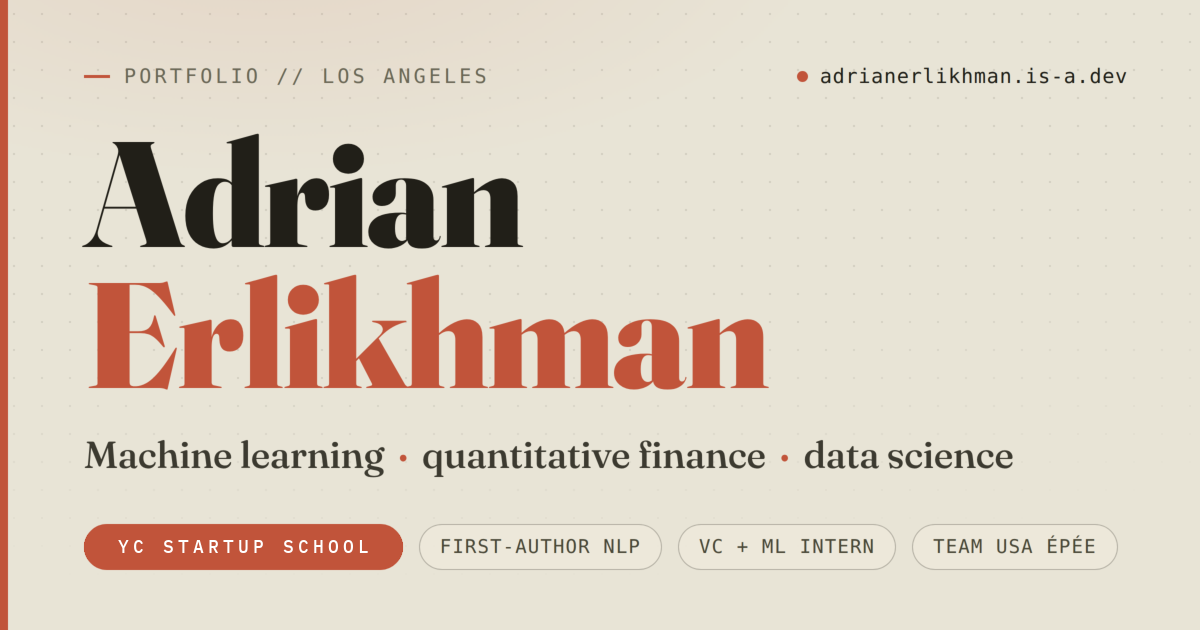
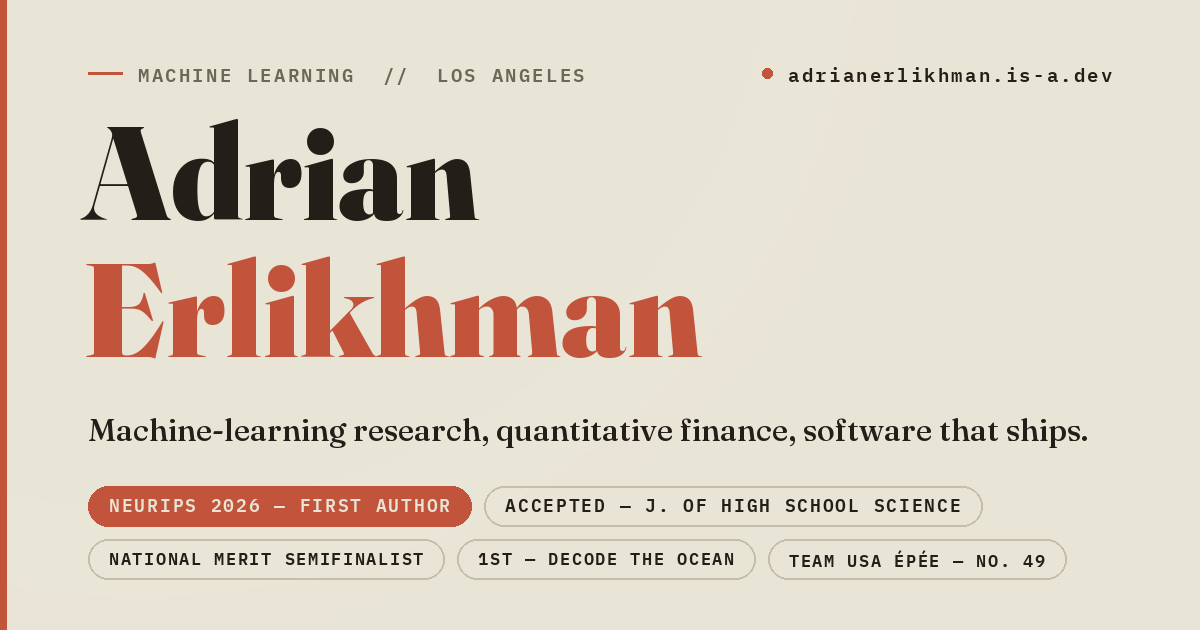
Link preview: lead with receipts, not category words (#67)
The card said "machine learning, quantitative finance, data science" --
three category words that describe a few hundred thousand people. The
title and description said roughly the same thing. Nothing on the card
was checkable.

It now leads with the things that are hard to fake: first author under
review at NeurIPS 2026, a robustness audit accepted to the Journal of
High School Science, National Merit Semifinalist, 1st at Decode the
Ocean, Team USA epee at U.S. No. 49. Same furniture -- rust spine,
Fraunces name, Plex Mono chips -- so it still reads as the same site.

Wording is careful about status: "under review" for the NeurIPS
submission and "accepted" for the journal, never the other way round.

Title, meta description, OG, Twitter and the JSON-LD all say the same
thing now; the structured-data award list picks up National Merit, Code
for Transportation and Citadel Terminal.

Adds tools/make_og.py so the card is regenerable instead of being a
binary nobody can edit. It fetches Fraunces and IBM Plex Mono into a
gitignored cache rather than vendoring OFL fonts into the repo.

diff --git a/index.html b/index.html
@@ -11,8 +11,8 @@
 <!--  links are placeholders (#) — point them at your real repos   -->
 <!--  and paper drafts when they're ready.                         -->
 <!-- ============================================================= -->
-<title>Adrian Erlikhman — AI/ML · Quant · Data</title>
-<meta name="description" content="Adrian Erlikhman — high-school senior in Los Angeles working on machine learning, quantitative finance, and data science. First-author NLP research submitted to NeurIPS 2026, VC and ML internships, Y Combinator Startup School, Team USA épée.">
+<title>Adrian Erlikhman — ML Research · Quant · Team USA Épée</title>
+<meta name="description" content="Adrian Erlikhman — machine-learning researcher and builder in Los Angeles. First-author NLP research under review at NeurIPS 2026; a Legatum Prosperity Index robustness audit accepted to the Journal of High School Science. National Merit Semifinalist, 1st place at the Decode the Ocean Hackathon, Y Combinator Startup School, and Team USA épée ranked No. 49 in the U.S.">
 <meta name="author" content="Adrian Erlikhman">
 <meta name="robots" content="index, follow, max-image-preview:large, max-snippet:-1, max-video-preview:-1">
 <link rel="me" href="https://github.com/adrian-erlikhman">
@@ -27,20 +27,20 @@
 <!-- Open Graph / social share preview -->
 <meta property="og:type" content="website">
 <meta property="og:site_name" content="Adrian Erlikhman">
-<meta property="og:title" content="Adrian Erlikhman — AI/ML · Quant · Data">
-<meta property="og:description" content="High-school senior in LA. First-author NLP research submitted to NeurIPS 2026, VC and ML internships, Y Combinator Startup School, and Team USA épée.">
+<meta property="og:title" content="Adrian Erlikhman — ML Research · Quant · Team USA Épée">
+<meta property="og:description" content="First-author NLP research under review at NeurIPS 2026. Robustness audit accepted to the Journal of High School Science. National Merit Semifinalist, 1st at Decode the Ocean, Team USA épée.">
 <meta property="og:url" content="https://adrianerlikhman.is-a.dev/">
-<meta property="og:image" content="https://adrianerlikhman.is-a.dev/og.png?v=3">
+<meta property="og:image" content="https://adrianerlikhman.is-a.dev/og.png?v=4">
 <meta property="og:image:width" content="1200">
 <meta property="og:image:height" content="630">
 <meta property="og:image:type" content="image/png">
-<meta property="og:image:alt" content="Adrian Erlikhman — machine learning, quantitative finance, data science. YC Startup School, first-author NLP, Team USA épée.">
+<meta property="og:image:alt" content="Adrian Erlikhman — machine-learning research, quantitative finance, software that ships. NeurIPS 2026 first author, accepted to the Journal of High School Science, National Merit Semifinalist, 1st at Decode the Ocean, Team USA épée No. 49.">
 <!-- Twitter card -->
 <meta name="twitter:card" content="summary_large_image">
-<meta name="twitter:title" content="Adrian Erlikhman — AI/ML · Quant · Data">
-<meta name="twitter:description" content="High-school senior in LA. First-author NLP research submitted to NeurIPS 2026, VC and ML internships, Y Combinator Startup School, and Team USA épée.">
-<meta name="twitter:image" content="https://adrianerlikhman.is-a.dev/og.png?v=3">
-<meta name="twitter:image:alt" content="Adrian Erlikhman — machine learning, quantitative finance, data science. YC Startup School, first-author NLP, Team USA épée.">
+<meta name="twitter:title" content="Adrian Erlikhman — ML Research · Quant · Team USA Épée">
+<meta name="twitter:description" content="First-author NLP research under review at NeurIPS 2026. Robustness audit accepted to the Journal of High School Science. National Merit Semifinalist, 1st at Decode the Ocean, Team USA épée.">
+<meta name="twitter:image" content="https://adrianerlikhman.is-a.dev/og.png?v=4">
+<meta name="twitter:image:alt" content="Adrian Erlikhman — machine-learning research, quantitative finance, software that ships. NeurIPS 2026 first author, accepted to the Journal of High School Science, National Merit Semifinalist, 1st at Decode the Ocean, Team USA épée No. 49.">
 <link rel="preconnect" href="https://fonts.googleapis.com">
 <link rel="preconnect" href="https://fonts.gstatic.com" crossorigin>
 <link href="https://fonts.googleapis.com/css2?family=Fraunces:opsz,wght@9..144,500;9..144,600;9..144,900&family=IBM+Plex+Sans:wght@400;500;600;700&family=IBM+Plex+Mono:wght@400;500;600&display=swap" rel="stylesheet">
@@ -852,7 +852,7 @@ p,.hero .role,.tl p,.proj p,.paper .meta,.mod,li,.lead,footer,.contact p,.bx p,.
       "@id": "https://adrianerlikhman.is-a.dev/#website",
       "url": "https://adrianerlikhman.is-a.dev/",
       "name": "Adrian Erlikhman",
-      "alternateName": "Adrian Erlikhman — AI/ML, Quant, Data",
+      "alternateName": "Adrian Erlikhman — ML Research, Quant, Team USA Épée",
       "inLanguage": "en-US",
       "publisher": { "@id": "https://adrianerlikhman.is-a.dev/#adrian" }
     },
@@ -860,7 +860,7 @@ p,.hero .role,.tl p,.proj p,.paper .meta,.mod,li,.lead,footer,.contact p,.bx p,.
       "@type": "ProfilePage",
       "@id": "https://adrianerlikhman.is-a.dev/#profilepage",
       "url": "https://adrianerlikhman.is-a.dev/",
-      "name": "Adrian Erlikhman — AI/ML · Quant · Data",
+      "name": "Adrian Erlikhman — ML Research · Quant · Team USA Épée",
       "isPartOf": { "@id": "https://adrianerlikhman.is-a.dev/#website" },
       "about": { "@id": "https://adrianerlikhman.is-a.dev/#adrian" },
       "mainEntity": { "@id": "https://adrianerlikhman.is-a.dev/#adrian" },
@@ -880,7 +880,7 @@ p,.hero .role,.tl p,.proj p,.paper .meta,.mod,li,.lead,footer,.contact p,.bx p,.
         "caption": "Adrian Erlikhman"
       },
       "jobTitle": "Student Researcher",
-      "description": "High-school senior in Los Angeles working on machine learning, quantitative finance, and data science. First-author NLP research submitted to NeurIPS 2026, VC and ML internships, Y Combinator Startup School, and competitive épée fencing for Team USA.",
+      "description": "High-school senior in Los Angeles working on machine learning, quantitative finance, and data science. First-author NLP research under review at NeurIPS 2026; a Legatum Prosperity Index robustness audit accepted to the Journal of High School Science. National Merit Semifinalist, VC and ML internships, Y Combinator Startup School, and competitive épée fencing for Team USA.",
       "email": "mailto:erlikhman.adrian@gmail.com",
       "alumniOf": {
         "@type": "EducationalOrganization",
@@ -912,12 +912,16 @@ p,.hero .role,.tl p,.proj p,.paper .meta,.mod,li,.lead,footer,.contact p,.bx p,.
         { "@type": "SportsOrganization", "name": "USA Fencing" }
       ],
       "award": [
+        "National Merit Semifinalist (2027 program)",
+        "Accepted, Journal of High School Science",
         "USA Fencing A26 rating, épée",
         "USA Fencing Region 4 — No. 1, épée",
         "U.S. Junior (U20) national ranking — No. 49",
         "U.S. Senior national ranking — No. 78",
         "U.S. Cadet (U17) national ranking — peak No. 17",
-        "Decode the Ocean 2026 — 1st place (eDNAtlas)"
+        "Decode the Ocean 2026 — 1st place (eDNAtlas)",
+        "Code for Transportation 2026 — 3rd place (Safe Routes LA)",
+        "Citadel Terminal 2026 — Finalist"
       ],
       "subjectOf": {
         "@type": "DigitalDocument",

diff --git a/tools/make_og.py b/tools/make_og.py
@@ -1,0 +1,188 @@
+# -*- coding: utf-8 -*-
+"""Render og.png, the link-preview card for adrianerlikhman.is-a.dev.
+
+Same furniture as the card it replaces -- 7px rust spine, warm ground, Fraunces
+name, IBM Plex Mono chips -- but the content does more work. The old card led
+with category words ("machine learning, quantitative finance, data science")
+that say nothing a hundred other pages don't. This one leads with the things
+that are hard to fake and easy to check.
+
+Cards get rendered small: ~300px in iMessage, ~360px in Slack. Only the name and
+the tagline survive that. So the chips are laid out as a credential wall -- read
+as texture at thumbnail size, read as receipts at full size.
+
+Fonts come from the same families the site loads from Google Fonts.
+"""
+import os
+import sys
+
+from PIL import Image, ImageDraw, ImageFont
+
+W, H = 1200, 630
+BG = (232, 228, 214)          # --bg
+INK = (33, 31, 24)            # --ink
+ACC = (193, 84, 58)           # --acc
+DIM = (107, 104, 87)          # --dim
+WASH = (237, 232, 218)        # the warm top-left lift
+SPINE = 7
+
+# Fraunces and IBM Plex Mono are the faces the site itself loads from Google
+# Fonts. They are fetched into a gitignored cache rather than vendored: both are
+# OFL, and redistributing them in-repo would mean shipping their licences too.
+FD = os.path.join(os.path.dirname(os.path.abspath(__file__)), "fonts")
+FONTS = {
+    "Fraunces.ttf":
+        "https://github.com/google/fonts/raw/main/ofl/fraunces/"
+        "Fraunces%5BSOFT%2CWONK%2Copsz%2Cwght%5D.ttf",
+    "IBMPlexMono-SemiBold.ttf":
+        "https://github.com/google/fonts/raw/main/ofl/ibmplexmono/"
+        "IBMPlexMono-SemiBold.ttf",
+}
+
+
+def ensure_fonts():
+    import urllib.request
+    os.makedirs(FD, exist_ok=True)
+    for name, url in FONTS.items():
+        dst = os.path.join(FD, name)
+        if not os.path.exists(dst):
+            print("fetching %s" % name)
+            urllib.request.urlretrieve(url, dst)
+    return [os.path.join(FD, n) for n in FONTS]
+
+
+FRAUNCES = os.path.join(FD, "Fraunces.ttf")
+MONO_SB = os.path.join(FD, "IBMPlexMono-SemiBold.ttf")
+
+MARGIN = 88
+
+KICK_L = "MACHINE LEARNING  //  LOS ANGELES"
+KICK_R = "adrianerlikhman.is-a.dev"
+NAME_1 = "Adrian"
+NAME_2 = "Erlikhman"
+TAGLINE = "Machine-learning research, quantitative finance, software that ships."
+
+# (text, filled) -- one row per list
+CHIP_ROWS = [
+    [("NEURIPS 2026 — FIRST AUTHOR", True),
+     ("ACCEPTED — J. OF HIGH SCHOOL SCIENCE", False)],
+    [("NATIONAL MERIT SEMIFINALIST", False),
+     ("1ST — DECODE THE OCEAN", False),
+     ("TEAM USA ÉPÉE — NO. 49", False)],
+]
+
+
+def fraunces(size, wght=900, opsz=144):
+    f = ImageFont.truetype(FRAUNCES, size)
+    f.set_variation_by_axes([float(opsz), float(wght), 0.0, 0.0])
+    return f
+
+
+def tracked(d, xy, text, font, fill, tracking=0.0):
+    """Draw with letter-spacing; returns the advance."""
+    x, y = xy
+    for ch in text:
+        d.text((x, y), ch, font=font, fill=fill)
+        x += d.textlength(ch, font=font) + tracking
+    return x - xy[0] - (tracking if text else 0)
+
+
+def tracked_width(d, text, font, tracking=0.0):
+    if not text:
+        return 0.0
+    return sum(d.textlength(c, font=font) for c in text) + tracking * (len(text) - 1)
+
+
+def build():
+    im = Image.new("RGB", (W, H), BG)
+    d = ImageDraw.Draw(im)
+
+    # a soft diagonal lift from the top-left, the way the old card had it
+    wash = Image.new("RGB", (W, H), WASH)
+    mask = Image.new("L", (W, H), 0)
+    md = ImageDraw.Draw(mask)
+    for i in range(60):
+        md.ellipse([-500 - i * 6, -640 - i * 6, 780 + i * 6, 520 + i * 6],
+                   outline=max(0, 46 - i), width=14)
+    im = Image.composite(wash, im, mask)
+    d = ImageDraw.Draw(im)
+
+    # faint dot grid
+    for gy in range(46, H, 34):
+        for gx in range(MARGIN // 2, W - 24, 34):
+            d.point((gx, gy), fill=(224, 219, 204))
+
+    d.rectangle([0, 0, SPINE - 1, H], fill=ACC)
+
+    f_kick = ImageFont.truetype(MONO_SB, 19)
+    f_tag = fraunces(31, wght=500, opsz=40)
+    f_chip = ImageFont.truetype(MONO_SB, 18)
+
+    # ---- kicker -------------------------------------------------------
+    ky = 62
+    d.line([MARGIN, ky + 11, MARGIN + 34, ky + 11], fill=ACC, width=3)
+    tracked(d, (MARGIN + 50, ky), KICK_L, f_kick, DIM, 2.6)
+
+    rw = tracked_width(d, KICK_R, f_kick, 2.6)
+    rx = W - MARGIN - rw
+    d.ellipse([rx - 26, ky + 6, rx - 16, ky + 16], fill=ACC)
+    tracked(d, (rx, ky), KICK_R, f_kick, INK, 2.6)
+
+    # ---- name ---------------------------------------------------------
+    f_name = fraunces(132, wght=900, opsz=144)
+    a1 = d.textbbox((0, 0), NAME_1, font=f_name)
+    d.text((MARGIN - 6, 118 - a1[1]), NAME_1, font=f_name, fill=INK)
+    a2 = d.textbbox((0, 0), NAME_2, font=f_name)
+    d.text((MARGIN - 6, 256 - a2[1]), NAME_2, font=f_name, fill=ACC)
+
+    # ---- tagline ------------------------------------------------------
+    ty = 418
+    tb = d.textbbox((0, 0), TAGLINE, font=f_tag)
+    d.text((MARGIN, ty - tb[1]), TAGLINE, font=f_tag, fill=INK)
+
+    # ---- chips --------------------------------------------------------
+    pad_x, ch_h, gap = 21, 40, 13
+    avail = W - MARGIN * 2
+    y = 486
+    for row in CHIP_ROWS:
+        # monospace, so the row's width is predictable -- shrink until it fits
+        size, track = 18, 1.7
+        while size > 12:
+            f_chip = ImageFont.truetype(MONO_SB, size)
+            wide = sum(tracked_width(d, t, f_chip, track) + pad_x * 2
+                       for t, _ in row) + gap * (len(row) - 1)
+            if wide <= avail:
+                break
+            size -= 1
+        x = MARGIN
+        for text, filled in row:
+            tw = tracked_width(d, text, f_chip, 1.7)
+            w = tw + pad_x * 2
+            box = [x, y, x + w, y + ch_h]
+            if filled:
+                d.rounded_rectangle(box, radius=ch_h // 2, fill=ACC)
+                col = BG
+            else:
+                d.rounded_rectangle(box, radius=ch_h // 2,
+                                    outline=(196, 190, 172), width=2)
+                col = INK
+            bb = d.textbbox((0, 0), text, font=f_chip)
+            tracked(d, (x + pad_x, y + (ch_h - (bb[3] - bb[1])) / 2 - bb[1]),
+                    text, f_chip, col, 1.7)
+            x += w + gap
+        print("  row: %d chips at %dpx, ends %.0f / %d" %
+              (len(row), size, x - gap, W - MARGIN))
+        y += ch_h + gap
+    return im
+
+
+def main(out):
+    ensure_fonts()
+    im = build()
+    im.save(out, format="PNG", optimize=True)
+    print("wrote %s  %dx%d  %d bytes" % (out, im.width, im.height,
+                                         os.path.getsize(out)))
+
+
+if __name__ == "__main__":
+    main(sys.argv[1])
